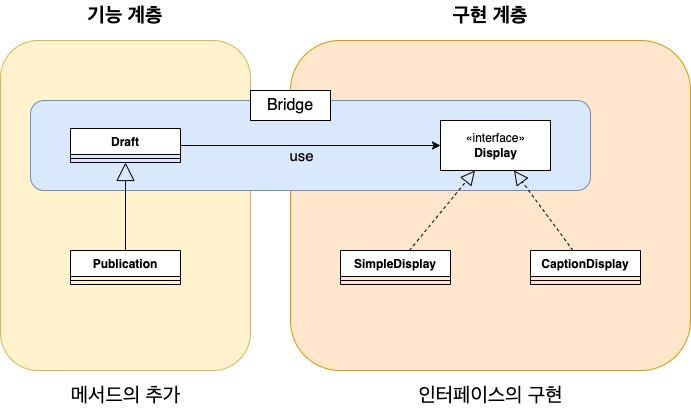
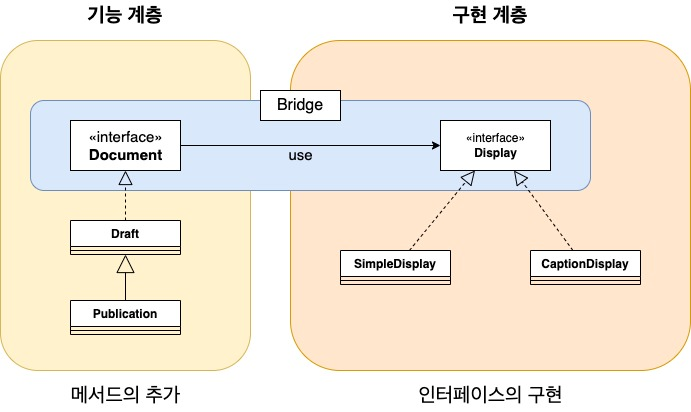
Update: Document 추가

diff --git a/Bridge/FeatureLayer/Draft.swift b/Bridge/FeatureLayer/Draft.swift
@@ -7,7 +7,7 @@
 
 import Foundation
 
-internal class Draft {
+internal class Draft: Document {
 
     internal let title: String
     internal let author: String

diff --git a/Bridge/FeatureLayer/Document.swift b/Bridge/FeatureLayer/Document.swift
@@ -6,3 +6,9 @@
 //
 
 import Foundation
+
+internal protocol Document {
+
+    func describe(display: Display)
+    
+}

diff --git a/Bridge/FeatureLayer/Publication.swift b/Bridge/FeatureLayer/Publication.swift
@@ -36,4 +36,5 @@ internal class Publication: Draft {
 
         self.describePublicationInfo()
     }
+    
 }
